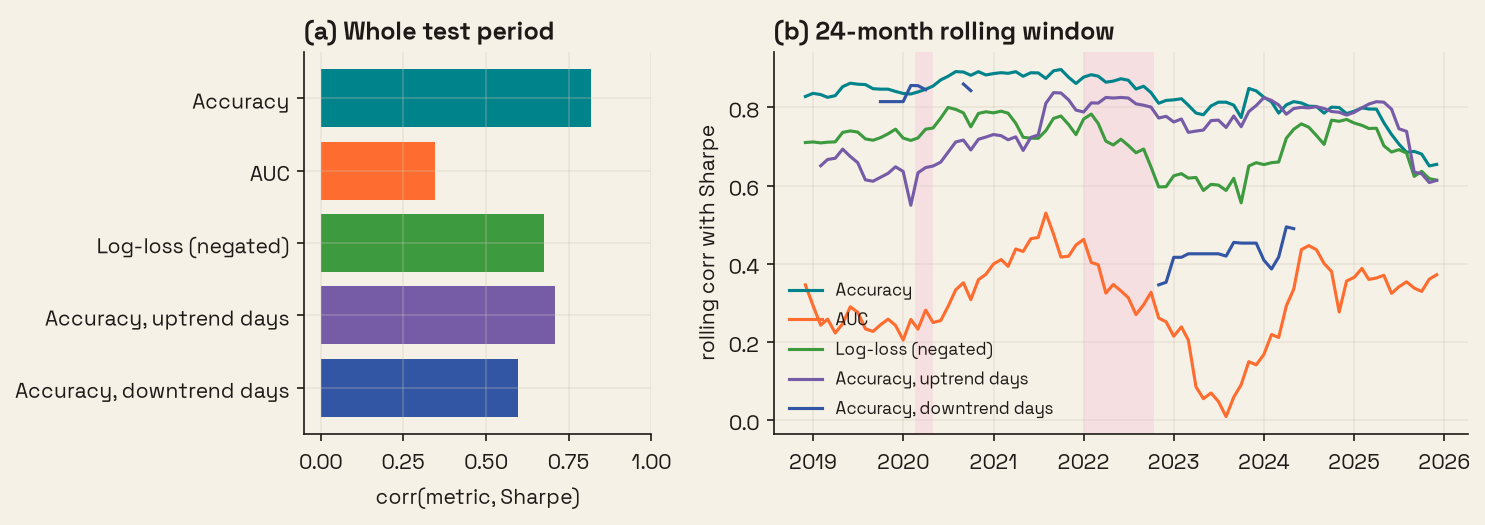
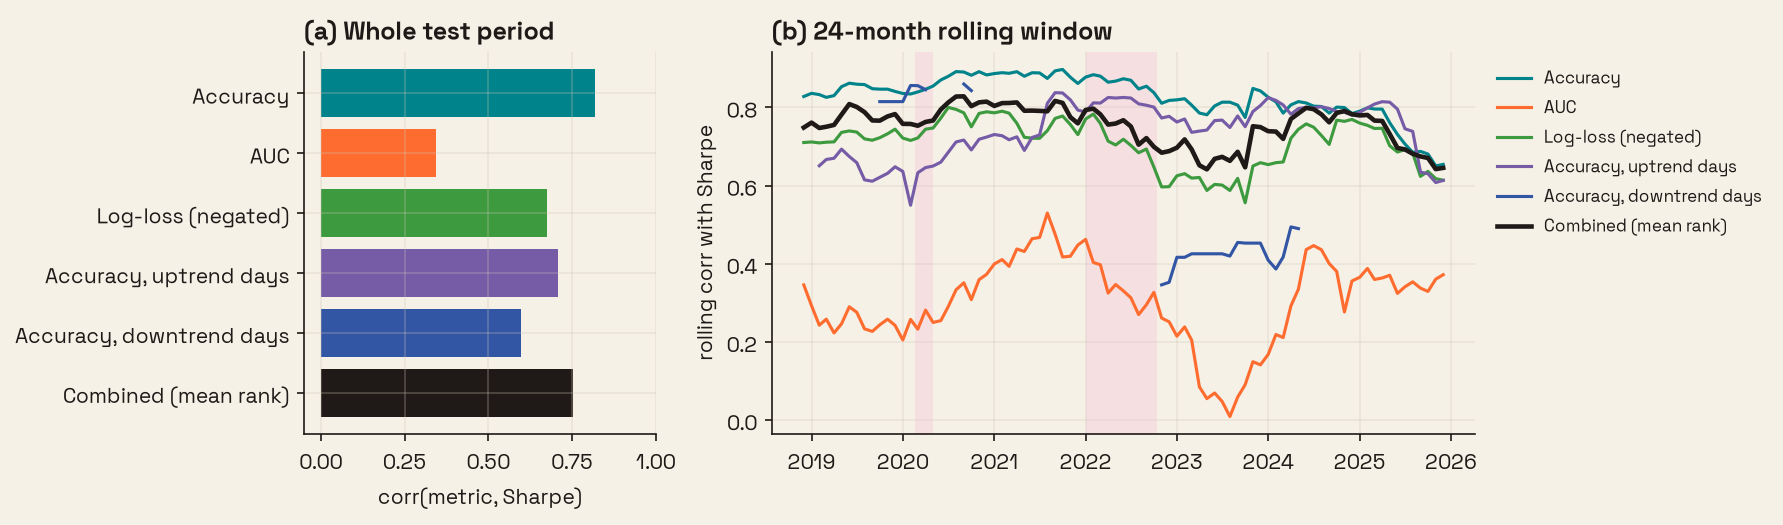
Figs: legend outside, spelled-out model names, time-gradient H3, linear k axes, line plot for best k

diff --git a/evalsq/plots.py b/evalsq/plots.py
@@ -7,19 +7,25 @@ import matplotlib
 matplotlib.use("Agg")
 import matplotlib.pyplot as plt  # noqa: E402
 from matplotlib import font_manager  # noqa: E402
+from matplotlib.colors import LinearSegmentedColormap  # noqa: E402
 import pandas as pd  # noqa: E402
 
 from .heuristics import METRICS  # noqa: E402
 
 MODEL_COLORS = {"LogReg": "#00838A", "RF": "#FF6C2F"}
-METRIC_COLORS = dict(zip(METRICS, ["#00838A", "#FF6C2F", "#3D9A3F", "#765BA7", "#3255A4"]))
+MODEL_LABELS = {"LogReg": "Logistic regression", "RF": "Random forest"}
+METRIC_COLORS = dict(zip(METRICS, ["#00838A", "#FF6C2F", "#3D9A3F", "#765BA7", "#3255A4", "#1F1A17"]))
 METRIC_LABELS = {
     "accuracy": "Accuracy",
     "auc": "AUC",
     "neg_logloss": "Log-loss (negated)",
     "bull_acc": "Accuracy, uptrend days",
     "bear_acc": "Accuracy, downtrend days",
+    "combined": "Combined (mean rank)",
 }
+# Time gradient for scatter points: teal (early) → yellow → pink (late).
+TIME_CMAP = LinearSegmentedColormap.from_list("riso_time", ["#00838A", "#FFB511", "#FF48B0"])
+K_TICKS = [1, 5, 10, 15, 20, 25]
 SHADE = {"2020 crash": ("2020-02-19", "2020-04-30"), "2022 bear": ("2022-01-03", "2022-10-12")}
 
 # Risograph-style inks on cream paper + Space Grotesk (OFL, bundled), to stand apart from default-looking figs.
@@ -78,7 +84,7 @@ def plot_setup(df: pd.DataFrame, cutoff: int, path: Path) -> Path:
 
 def plot_h1(summary: pd.DataFrame, roll: pd.DataFrame, path: Path) -> Path:
     """(a) pooled corr of each metric with Sharpe. (b) rolling corr over time, averaged over models."""
-    fig, (a, b) = plt.subplots(1, 2, figsize=(10, 3.6), gridspec_kw={"width_ratios": [1, 2]})
+    fig, (a, b) = plt.subplots(1, 2, figsize=(12, 3.6), gridspec_kw={"width_ratios": [1, 2]})
     s = summary.set_index("metric").loc[METRICS]
     a.barh([METRIC_LABELS[m] for m in METRICS], s["pooled_corr"], color=[METRIC_COLORS[m] for m in METRICS])
     a.invert_yaxis()
@@ -91,12 +97,13 @@ def plot_h1(summary: pd.DataFrame, roll: pd.DataFrame, path: Path) -> Path:
     months = pd.period_range(mean.index.min(), mean.index.max(), freq="M").astype(str)
     mean = mean.reindex(months)
     for m in METRICS:
-        b.plot(_period_ts(mean.index), mean[m], color=METRIC_COLORS[m], lw=1.5, label=METRIC_LABELS[m])
+        b.plot(_period_ts(mean.index), mean[m], color=METRIC_COLORS[m], lw=2.2 if m == "combined" else 1.5,
+               label=METRIC_LABELS[m])
     for a_, b_ in SHADE.values():
         b.axvspan(pd.Timestamp(a_), pd.Timestamp(b_), color="#FF48B0", alpha=0.1, lw=0)
     b.set_ylabel("rolling corr with Sharpe")
     b.set_title("(b) 24-month rolling window", loc="left")
-    b.legend(fontsize=8, frameon=False, loc="lower left")
+    b.legend(fontsize=8, frameon=False, loc="upper left", bbox_to_anchor=(1.01, 1))
     return _save(fig, path)
 
 
@@ -107,10 +114,10 @@ def plot_h2(h2: pd.DataFrame, path: Path) -> Path:
     width = 0.8 / len(models)
     x = range(len(h2))
     for i, m in enumerate(models):
-        ax.bar([j + (i - (len(models) - 1) / 2) * width for j in x], h2[m], width, color=MODEL_COLORS[m], label=m)
+        ax.bar([j + (i - (len(models) - 1) / 2) * width for j in x], h2[m], width, color=MODEL_COLORS[m], label=MODEL_LABELS.get(m, m))
     flips = h2["winner"] != h2["winner"].shift()
     for j in [j for j in x if j > 0 and flips.iloc[j]]:
-        ax.annotate("flip", (j, h2.loc[j, models].max() + 0.005), ha="center", fontsize=8, color="#FF48B0")
+        ax.annotate("winner\nchanges", (j, h2.loc[j, models].max() + 0.005), ha="center", fontsize=8, color="#FF48B0")
     ax.axhline(0.5, color="#5E554F", lw=0.8, ls=":")
     ax.set_xticks(list(x), h2["test_year"].astype(str))
     ax.set_ylim(0.4, max(0.62, h2[models].max().max() + 0.03))
@@ -119,21 +126,34 @@ def plot_h2(h2: pd.DataFrame, path: Path) -> Path:
     return _save(fig, path)
 
 
-def plot_h3(meta: pd.DataFrame, r2: float, path: Path) -> Path:
-    """Meta-model prediction of yearly accuracy (leave-one-out) against the observed accuracy."""
-    fig, ax = plt.subplots(figsize=(4.2, 4))
-    ax.scatter(meta["acc"], meta["pred_acc"], color="#00838A")
-    for _, r in meta.iterrows():
-        ax.annotate(str(int(r["year"])), (r["acc"], r["pred_acc"]), fontsize=7, xytext=(3, 3), textcoords="offset points")
+def _meta_panel(ax, meta: pd.DataFrame, when: pd.Series, r2: float, title: str):
+    """Observed vs. LOO-predicted accuracy, points colored by date."""
+    sc = ax.scatter(meta["acc"], meta["pred_acc"], c=when, cmap=TIME_CMAP, s=28, edgecolor=INK, lw=0.3, zorder=3)
     lo = min(meta["acc"].min(), meta["pred_acc"].min()) - 0.01
     hi = max(meta["acc"].max(), meta["pred_acc"].max()) + 0.01
     ax.plot([lo, hi], [lo, hi], color="#5E554F", lw=0.8, ls="--")
     ax.set_xlim(lo, hi)
     ax.set_ylim(lo, hi)
     ax.set_xlabel("observed accuracy")
-    ax.set_ylabel("predicted accuracy")
-    ax.set_title(f"leave-one-out R² = {r2:.2f}", loc="left")
-    return _save(fig, path)
+    ax.set_title(f"{title}, leave-one-out R² = {r2:.2f}", loc="left")
+    return sc
+
+
+def plot_h3(meta: pd.DataFrame, r2: float, monthly: pd.DataFrame, r2_m: float, path: Path) -> Path:
+    """Meta-model prediction of accuracy (leave-one-out) against observed: (a) per year, (b) per month."""
+    fig, (a, b) = plt.subplots(1, 2, figsize=(9.5, 4))
+    t = monthly["month"].str[:4].astype(int) + (monthly["month"].str[5:7].astype(int) - 1) / 12
+    lims = dict(vmin=min(meta["year"].min(), t.min()), vmax=max(meta["year"].max(), t.max()))
+    _meta_panel(a, meta, meta["year"], r2, "(a) Per year").set_clim(**lims)
+    sc = _meta_panel(b, monthly, t, r2_m, "(b) Per month")
+    sc.set_clim(**lims)
+    a.set_ylabel("predicted accuracy")
+    cb = fig.colorbar(sc, ax=[a, b], pad=0.02, fraction=0.04)
+    cb.set_ticks(range(int(lims["vmin"]), int(lims["vmax"]) + 1, 2))
+    cb.outline.set_visible(False)
+    fig.savefig(path, bbox_inches="tight")
+    plt.close(fig)
+    return path
 
 
 # ── Deployment (deploy.py) ───────────────────────────────────────────────────
@@ -141,7 +161,9 @@ def plot_h3(meta: pd.DataFrame, r2: float, path: Path) -> Path:
 RULE_COLORS = {**METRIC_COLORS, "lagged_pnl": "#FF48B0"}
 RULE_LABELS = {**METRIC_LABELS, "lagged_pnl": "Lagged P&L", "oracle": "Oracle (hindsight)",
                "never_switch": "Never switch", "always_long": "Always long SPY"}
-REF_STYLE = {"oracle": ("#1F1A17", ":"), "never_switch": ("#8A8079", "--"), "always_long": ("#2B2522", "-")}
+RULE_LABELS["bogle"] = "Bogleheads 3-fund (60/20/20)"
+REF_STYLE = {"oracle": ("#1F1A17", ":"), "never_switch": ("#8A8079", "--"), "always_long": ("#2B2522", "-"),
+             "bogle": ("#FFB511", "-")}
 ZOO_COLORS = ["#00838A", "#3255A4", "#FF6C2F", "#FFB511", "#3D9A3F", "#9FD4C8", "#765BA7", "#FF48B0"]
 
 
@@ -151,13 +173,14 @@ def plot_deploy(eq: pd.DataFrame, rules: list[str], path: Path) -> Path:
     x = _period_ts(eq.index)
     for r in eq.columns:
         color, ls = REF_STYLE.get(r, (RULE_COLORS.get(r, "#A89E96"), "-"))
-        lw = 1.8 if r in rules else 1.2
+        lw = 2.4 if r in ("combined", "bogle") else 1.8 if r in rules else 1.2
         ax.plot(x, eq[r], color=color, ls=ls, lw=lw, label=f"{RULE_LABELS.get(r, r)}  ${eq[r].iloc[-1] / 1e3:,.0f}k")
     for a_, b_ in SHADE.values():
         ax.axvspan(pd.Timestamp(a_), pd.Timestamp(b_), color="#FF48B0", alpha=0.1, lw=0)
     ax.set_yscale("log")
     ax.set_ylabel("portfolio value (USD, log)")
-    ax.legend(fontsize=8, frameon=False, loc="upper left", title="pick the model with the best...", title_fontsize=8)
+    ax.legend(fontsize=8, frameon=False, loc="upper left", bbox_to_anchor=(1.01, 1),
+              title="pick the model with the best...", title_fontsize=8)
     return _save(fig, path)
 
 
@@ -187,7 +210,8 @@ def plot_winners_curse(wc: pd.DataFrame, path: Path) -> Path:
     ax.plot(wc["k"], wc["bench_acc"], "o-", color="#00838A", label="bench (selection window)")
     ax.plot(wc["k"], wc["deployed_acc"], "o-", color="#FF48B0", label="deployed (next month)")
     ax.fill_between(wc["k"], wc["deployed_acc"], wc["bench_acc"], color="#A89E96", alpha=0.2, lw=0)
-    ax.set_xscale("log")
+    ax.set_xticks(K_TICKS)
+    ax.set_xlim(0, 26)
     ax.set_xlabel("candidates compared (k)")
     ax.set_ylabel("accuracy of the picked model")
     ax.legend(fontsize=8, frameon=False)
@@ -198,12 +222,13 @@ def plot_gap_dist(monthly: pd.DataFrame, path: Path) -> Path:
     """Spread of the monthly winner's-curse gap at each pool size k, with the mean on top."""
     ks = sorted(monthly["k"].unique())
     fig, ax = plt.subplots(figsize=(5, 3.6))
-    ax.boxplot([monthly.loc[monthly["k"] == k, "gap"] * 100 for k in ks], positions=range(len(ks)),
-               widths=0.5, showfliers=False, medianprops={"color": "#00838A"})
+    ax.boxplot([monthly.loc[monthly["k"] == k, "gap"] * 100 for k in ks], positions=ks,
+               widths=0.8, showfliers=False, medianprops={"color": "#00838A"}, manage_ticks=False)
     means = monthly.groupby("k")["gap"].mean() * 100
-    ax.plot(range(len(ks)), means.loc[ks], "o-", color="#FF48B0", label="mean over months")
+    ax.plot(ks, means.loc[ks], "o-", color="#FF48B0", label="mean over months")
     ax.axhline(0, color="#A89E96", lw=0.8)
-    ax.set_xticks(range(len(ks)), [str(k) for k in ks])
+    ax.set_xticks(K_TICKS)
+    ax.set_xlim(-1, 27)
     ax.set_xlabel("candidates compared (k)")
     ax.set_ylabel("gap, bench minus deployed (pt)")
     ax.legend(fontsize=8, frameon=False, loc="upper left")
@@ -214,14 +239,13 @@ def plot_opt_k(opt: pd.DataFrame, path: Path) -> Path:
     """Which pool size k would have deployed best each month, and how much that answer moves."""
     fig, (a, b) = plt.subplots(2, 1, figsize=(8, 4.4), sharex=True, height_ratios=[2, 1])
     x = _period_ts(opt["month"])
-    a.step(x, opt["opt_k"], where="mid", color="#00838A", lw=1.2)
-    a.set_yscale("log", base=2)
-    ks = sorted(opt["opt_k"].unique())
-    a.set_yticks(ks, [str(k) for k in ks])
-    a.minorticks_off()
-    a.set_ylabel("best k that month")
+    a.plot(x, opt["opt_k"], "o-", color="#00838A", lw=0.8, ms=3, alpha=0.6, label="that month")
+    a.plot(x, opt["opt_k"].rolling(12, min_periods=12).mean(), color="#1F1A17", lw=2, label="12-mo mean")
+    a.set_yticks(K_TICKS)
+    a.set_ylabel("best k")
+    a.legend(fontsize=8, frameon=False, loc="upper left", bbox_to_anchor=(1.01, 1))
     b.plot(x, opt["opt_k_vol"], color="#FF48B0")
-    b.set_ylabel("12-mo std of log2 k")
+    b.set_ylabel("12-mo std of k")
     for ax in (a, b):
         for a_, b_ in SHADE.values():
             ax.axvspan(pd.Timestamp(a_), pd.Timestamp(b_), color="#FF48B0", alpha=0.1, lw=0)

diff --git a/README.md b/README.md
@@ -30,7 +30,7 @@ SPY daily close. Models are trained on 2010 to 2017 and scored from 2018 onward.
 
 ![h1](figures/fig2_h1_validity.png)
 
-Correlation between each candidate metric and the strategy's Sharpe ratio, computed per month. (a) Over the whole test period, accuracy has the highest correlation (0.82) and AUC the lowest (0.35). (b) The same correlation over a 24-month rolling window, averaged over the two models. Accuracy stays between 0.62 and 0.92 for both models, while AUC for the logistic regression drops to -0.55 in 2023, which means that months with a higher AUC tended to have a lower return during that window. Accuracy on downtrend days has gaps since many months have too few such days to score.
+Correlation between each candidate metric and the strategy's Sharpe ratio, computed per month. (a) Over the whole test period, accuracy has the highest correlation (0.82) and AUC the lowest (0.35). (b) The same correlation over a 24-month rolling window, averaged over the two models. Accuracy stays between 0.62 and 0.92 for both models, while AUC for the logistic regression drops to -0.55 in 2023, which means that months with a higher AUC tended to have a lower return during that window. Accuracy on downtrend days has gaps because it needs at least 3 days below the 50-day average in a month, and only 44 of the 96 test months have that, mostly outside the 2018 to 2022 bull run. The combined score (mean percentile rank over the five metrics) correlates at 0.75 overall, below accuracy alone.
 
 ### H2. Temporal holdout
 
@@ -42,7 +42,11 @@ Accuracy of each model when trained on every year before the test year and score
 
 ![h3](figures/fig4_h3_meta.png)
 
-A linear model that predicts the random forest's yearly accuracy from the mean volatility and trend of that year, scored with leave-one-out. A high R² would mean that the benchmark mostly measures the market regime instead of the model. Here the R² is -0.38, so these two features do not predict the score, and the yearly accuracy still carries information about the model.
+A linear model that predicts the random forest's accuracy from the mean volatility and trend of the period, scored with leave-one-out. (a) per year, (b) per month; color goes from early (teal) to late (pink). A high R² would mean that the benchmark mostly measures the market regime instead of the model. Here the R² is -0.38 per year and -0.03 per month, so these two features do not predict the score, and the yearly accuracy still carries information about the model.
+
+### Deployment and the Bogleheads line
+
+`fig5_deploy.png` shows portfolio value under each selection rule, including `combined` (the model with the best mean rank over the other five rules that month). `fig5b_deploy_bogle.png` adds a Bogleheads three-fund portfolio (60% VTI, 20% VXUS, 20% BND, rebalanced monthly; `--no-bogle` skips it). The combined rule ends at $177k, below accuracy alone ($222k). The three-fund portfolio ends at $215k, under always-long SPY ($287k) because of the bond and international share.
 
 ### Backup: winner's curse spread and best pool size
 
@@ -52,7 +56,7 @@ Monthly gap between the winner's bench accuracy and its deployed accuracy, per p
 
 ![optk](figures/fig9_opt_k.png)
 
-The pool size whose winner deployed best, month by month, and the 12-month rolling std of log2 k. The best k is 1 in 32 months and 25 in 39, and it flips between the two with no link to the crash or the bear market. Deployed accuracy barely moves with k (54.0% to 54.4%), so a bigger search only inflates the bench number.
+The pool size whose winner deployed best, month by month, with its 12-month mean, and the 12-month rolling std of k. The best k is 1 in 32 months and 25 in 39, and it flips between the two with no link to the crash or the bear market. Deployed accuracy barely moves with k (54.0% to 54.4%), so a bigger search only inflates the bench number.
 
 ## Code
 
